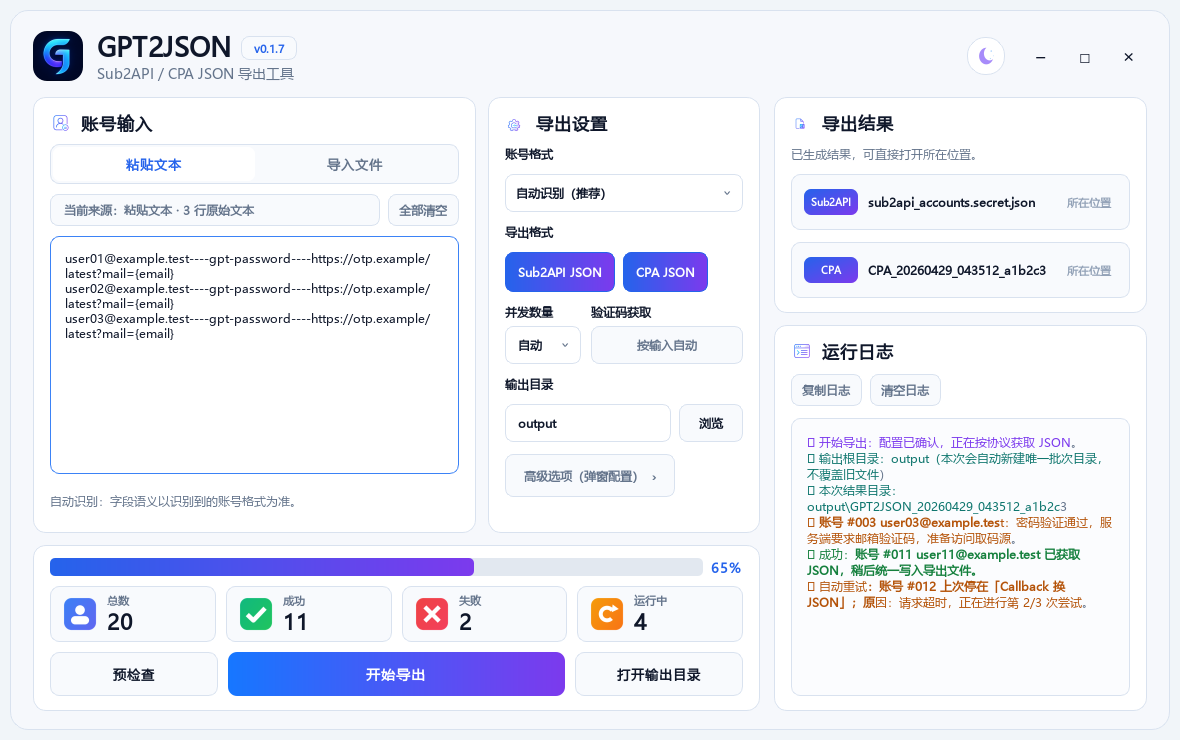
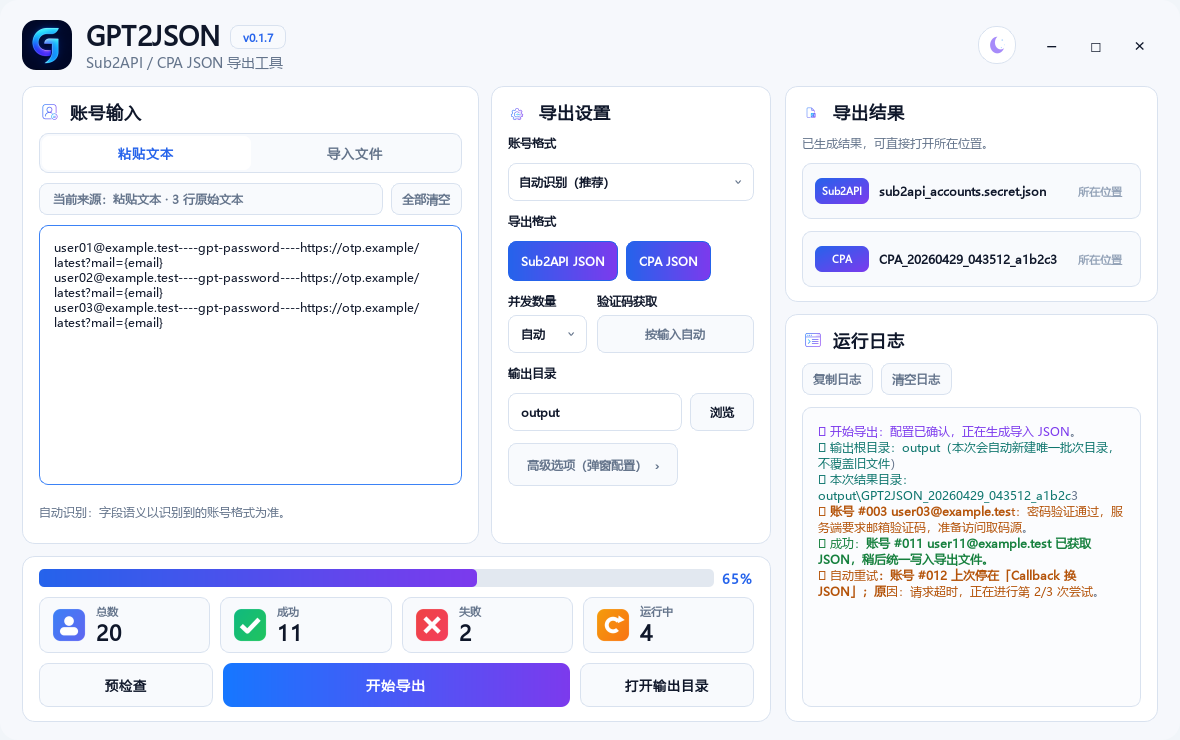
Refresh docs images for supplier format wording

diff --git a/gpt2json/gui.py b/gpt2json/gui.py
@@ -1810,7 +1810,7 @@ class MainWindow(QMainWindow):
             grid.addLayout(label_box, row, 0)
             grid.addWidget(spin, row, 1)
 
-        add_row(0, "HTTP 请求超时（秒）", "登录、OAuth、接口请求的单次等待时间。", http_spin)
+        add_row(0, "HTTP 请求超时（秒）", "登录和接口请求的单次等待时间。", http_spin)
         add_row(1, "验证码等待超时（秒）", "触发邮箱验证码后，最多轮询取码源多久。", otp_spin)
         add_row(2, "验证码轮询间隔（秒）", "两次取码请求之间的间隔，过低可能触发限流。", interval_spin)
         add_row(3, "自动重试次数", "单账号遇到可恢复失败时最多尝试几次，默认 3。", attempts_spin)
@@ -2165,7 +2165,7 @@ class MainWindow(QMainWindow):
             self.log_edit.clear()
             self._log_waiting = False
         self._set_status("运行中", "running")
-        self.append_log("🚀 开始导出：配置已确认，正在按协议获取 JSON。")
+        self.append_log("🚀 开始导出：配置已确认，正在生成导入 JSON。")
         self.append_log(f"🧩 运行配置：输入格式={self._input_format_label()}；导出={self._selected_output_labels()}；并发={'自动' if int(self.concurrency_spin.value()) == 0 else self.concurrency_spin.value()}。")
         total_attempts = int(self.max_attempts_spin.value()) + int(self.auto_rerun_spin.value())
         self.append_log(f"🔁 稳定性策略：可恢复失败先自动重试 {int(self.max_attempts_spin.value())} 次；仍未成功时进入单账号自动重跑补救 {int(self.auto_rerun_spin.value())} 次，最多 {total_attempts} 次。")
@@ -2174,7 +2174,7 @@ class MainWindow(QMainWindow):
             self.append_log(f"🔄 批次级自动补跑：批次结束后最多自动补跑 {batch_auto_limit} 次，只处理 failed_rerun.secret.txt 中的可恢复失败账号。")
         else:
             self.append_log("🔄 批次级自动补跑：当前已关闭；仍会生成失败清单并保留“重跑失败账号”手动入口。")
-        self.append_log("🧭 执行流程：OAuth 初始化 → 账号密码验证 → 按需获取邮箱验证码 → Callback 换取 JSON。")
+        self.append_log("🧭 执行流程：登录初始化 → 账号密码验证 → 按需获取邮箱验证码 → Callback 换取 JSON。")
         self.append_log("🔎 登录策略：优先账密登录；只有出现验证码页面时才启用取码源；全程不拉起浏览器。")
         self.append_log(f"📁 输出根目录：{Path(output_dir).resolve()}（本次会自动新建唯一批次目录，不覆盖旧文件）")
         self._cancel_event = threading.Event()
@@ -2248,7 +2248,7 @@ class MainWindow(QMainWindow):
 
     def _stage_display(self, value: Any) -> str:
         mapping = {
-            "oauth_start": "OAuth 初始化",
+            "oauth_start": "登录初始化",
             "entry": "授权入口",
             "sentinel": "风控票据",
             "authorize_continue": "账号识别",
@@ -2316,7 +2316,7 @@ class MainWindow(QMainWindow):
             "invalid_auth_step": "认证步骤状态不同步，客户端会自动刷新会话状态后重试。",
             "bad_request": "认证接口认为当前请求状态不完整，客户端会自动刷新页面状态后重试。",
             "otp_timeout": "在等待时间内没有获取到新的验证码。",
-            "callback_error": "没有拿到 OAuth Callback，可能是跳转链路未完成。",
+            "callback_error": "没有拿到 Callback，可能是跳转链路未完成。",
             "finalize_unresolved": "登录已推进到收尾阶段，但最终 Callback 没有解析成功。",
             "workspace_select_error": "工作区选择接口返回异常。",
             "workspace_select_continue_missing": "工作区选择完成后没有返回下一步地址。",
@@ -2392,7 +2392,7 @@ class MainWindow(QMainWindow):
         status = self._status_code_label(event.get("status_code"))
         page_type = str(event.get("page_type") or "").strip()
         if stage == "oauth_start":
-            return f"🧭 {account}：开始 OAuth 初始化，创建授权会话。"
+            return f"🧭 {account}：开始登录初始化，创建授权会话。"
         if stage == "entry":
             return f"🚪 {account}：授权入口已响应（{status}），正在保存会话状态。"
         if stage == "sentinel":

diff --git a/scripts/generate_docs_assets.py b/scripts/generate_docs_assets.py
@@ -131,12 +131,12 @@ def create_hero() -> None:
     draw.text((316, 157), f"v{version}", font=font(24, bold=True), fill="#DCEBFF")
     draw.text((144, 280), "GPT2JSON", font=font(112, bold=True), fill="#FFFFFF")
     draw.text((149, 405), "Sub2API / CPA JSON 导出工具", font=font(43, bold=True), fill="#DBEAFE")
-    draw.text((151, 468), "协议优先 · 本地生成 · 中文桌面体验 · 批次隔离", font=font(30), fill="#AFC4EA")
+    draw.text((151, 468), "本地生成 · 按号商格式适配 · 中文桌面体验 · 批次隔离", font=font(30), fill="#AFC4EA")
 
     # Minimal capability row: fine separators instead of heavy badges.
     cap_layer = Image.new("RGBA", img.size, (0, 0, 0, 0))
     cap_draw = ImageDraw.Draw(cap_layer)
-    cap_specs = [(151, "OAuth", "#60A5FA"), (292, "OTP", "#22D3EE"), (408, "Sub2API", "#A78BFA"), (584, "CPA", "#34D399"), (694, "Batch JSON", "#93C5FD")]
+    cap_specs = [(151, "Plus7", "#60A5FA"), (286, "本地导出", "#22D3EE"), (452, "Sub2API", "#A78BFA"), (628, "CPA", "#34D399"), (738, "批次隔离", "#93C5FD")]
     for index, (x, label, color) in enumerate(cap_specs):
         cap_draw.ellipse((x, 584, x + 10, 594), fill=color)
         cap_draw.text((x + 19, 574), label, font=font(22, bold=True), fill=(226, 239, 255, 218))
@@ -155,7 +155,7 @@ def create_hero() -> None:
     panel_draw.rounded_rectangle((990, 104, 1798, 638), 42, fill=(9, 16, 37, 185), outline=(186, 210, 255, 44), width=1)
     panel_draw.rounded_rectangle((1018, 132, 1770, 610), 28, fill=(255, 255, 255, 9), outline=(255, 255, 255, 18), width=1)
 
-    for i, (label, color) in enumerate([("INPUT", "#60A5FA"), ("OAUTH", "#A78BFA"), ("OTP", "#22D3EE"), ("JSON", "#34D399")]):
+    for i, (label, color) in enumerate([("INPUT", "#60A5FA"), ("LOGIN", "#A78BFA"), ("CODE", "#22D3EE"), ("JSON", "#34D399")]):
         y = 170 + i * 88
         panel_draw.rounded_rectangle((1056, y, 1185, y + 42), 20, fill=(255, 255, 255, 13), outline=(255, 255, 255, 20))
         panel_draw.ellipse((1074, y + 13, 1090, y + 29), fill=color)
@@ -184,7 +184,7 @@ def create_hero() -> None:
         arc_draw.arc((1430 - radius, 374 - radius, 1430 + radius, 374 + radius), 200, 330, fill=(191, 219, 254, opacity), width=2)
     img.alpha_composite(arcs)
 
-    draw.text((146, 681), "Local-first exporter  /  JSON pool preparation  /  Safe masked logs", font=font(21), fill="#7890BA")
+    draw.text((146, 681), "Local-first exporter  /  Supplier format adapter  /  Safe masked logs", font=font(21), fill="#7890BA")
     ASSET_DIR.mkdir(parents=True, exist_ok=True)
     img.convert("RGB").save(ASSET_DIR / "hero.png", quality=96)
 
@@ -262,7 +262,7 @@ def capture_gui_previews() -> None:
         window.cpa_row.set_path(r"output\GPT2JSON_20260429_043512_a1b2c3\CPA_20260429_043512_a1b2c3")
         window._refresh_output_format_state()
         window.log_edit.setPlainText(
-            "🚀 开始导出：配置已确认，正在按协议获取 JSON。\n"
+            "🚀 开始导出：配置已确认，正在生成导入 JSON。\n"
             "📁 输出根目录：output（本次会自动新建唯一批次目录，不覆盖旧文件）\n"
             "🗂 本次结果目录：output\\GPT2JSON_20260429_043512_a1b2c3\n"
             "📮 账号 #003 user03@example.test：密码验证通过，服务端要求邮箱验证码，准备访问取码源。\n"

diff --git a/tests/test_gui.py b/tests/test_gui.py
@@ -796,7 +796,7 @@ def test_log_line_classification_for_semantic_colors():
     assert classify_log_line("🚫 终态失败：账号 #001 服务端返回账号已停用") == "error"
     assert classify_log_line("🧾 失败诊断报告：failure_report.safe.json") == "output"
     assert classify_log_line("📦 任务已启动：共 3 个账号，并发=3。") == "start"
-    assert classify_log_line("🧭 执行流程：OAuth 初始化 → 账号密码验证 → 按需获取邮箱验证码 → Callback 换取 JSON。") == "info"
+    assert classify_log_line("🧭 执行流程：登录初始化 → 账号密码验证 → 按需获取邮箱验证码 → Callback 换取 JSON。") == "info"
     assert classify_log_line("🔎 登录策略：遇到验证码才启用取码源。") == "info"
 
 

diff --git a/README.md b/README.md
@@ -99,7 +99,7 @@ user@example.test----example-gpt-password----https://otp-service.test/latest?mai
 | --- | --- |
 | 粘贴 / 文件导入 | 支持直接粘贴多行账号，也支持导入 `.txt`。 |
 | 自动识别格式 | 默认自动识别；暂未支持的格式会在界面中置灰展示。 |
-| 协议优先登录 | 优先走协议流程，尽量减少浏览器自动化依赖。 |
+| 账密优先登录 | 优先尝试账号密码登录；只有服务端要求时才进入取码流程。 |
 | 按需取验证码 | 大多数账号只走账密；只有服务端要求时才进入取码流程。 |
 | 自动并发 | 默认自动选择并发，也可以在高级选项中手动调整。 |
 | 自动重试 / 自动补救 | 网络波动、取码延迟、旧验证码等可恢复问题会尽量自动处理。 |
